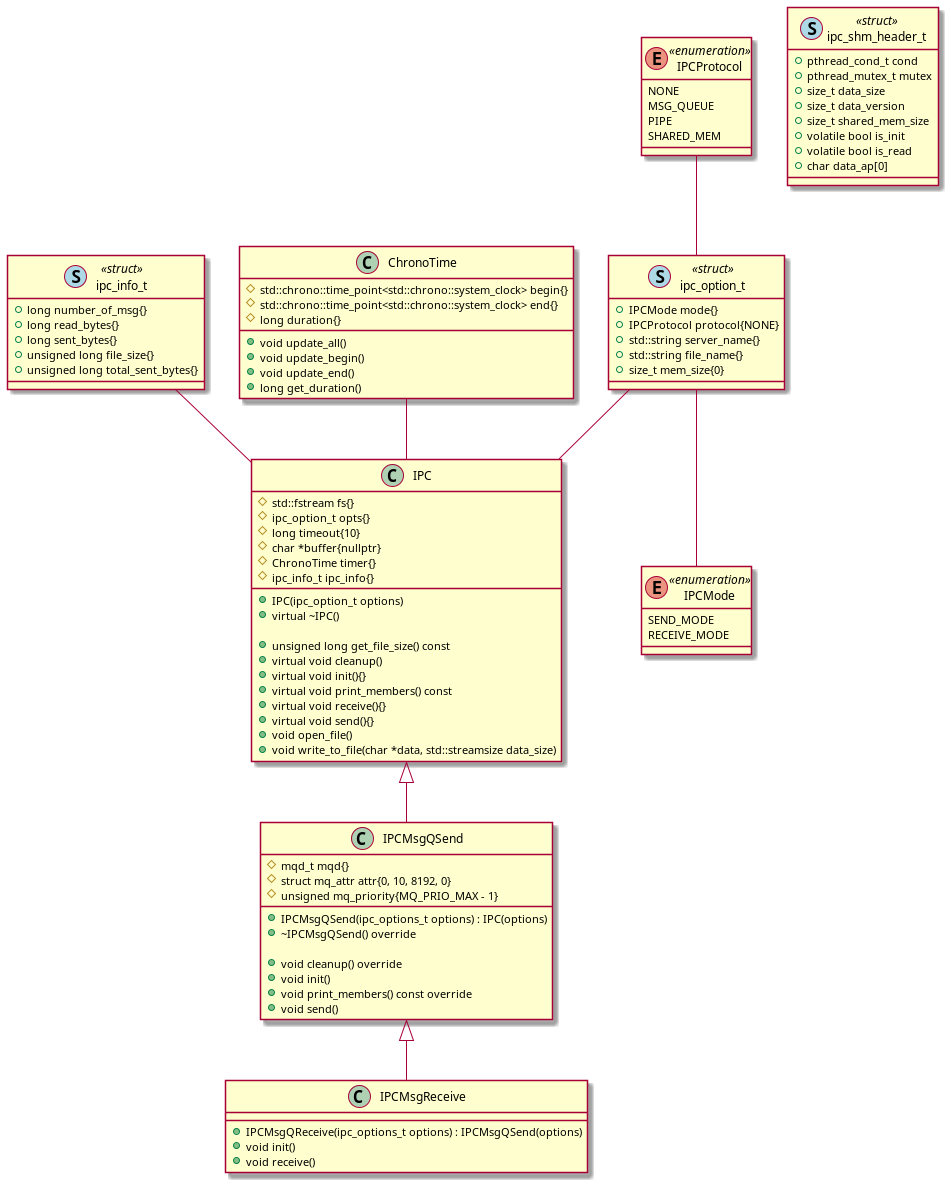
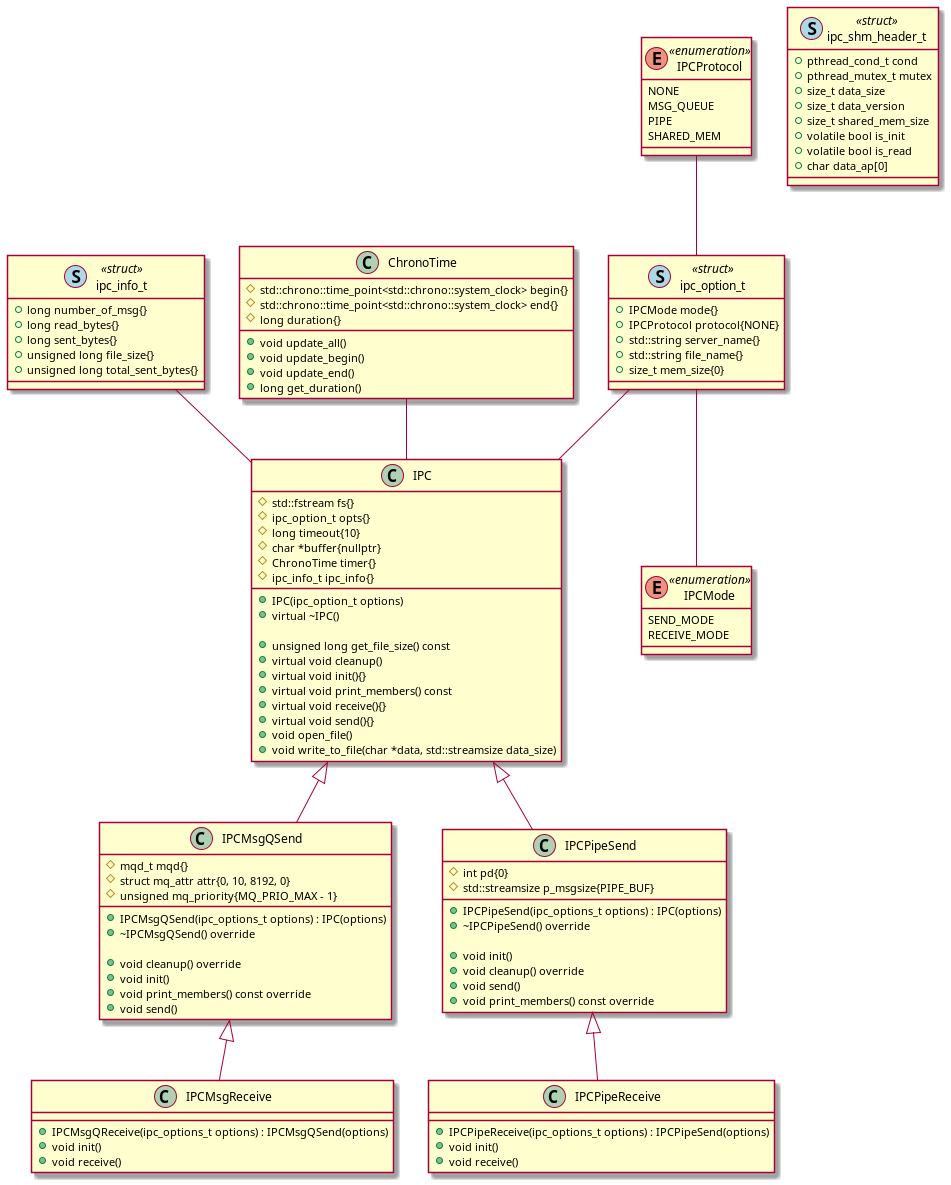
Pipe

Changed region(s): [[0.0915, 0.6869, 0.7928, 0.8743], [0.0305, 0.9055, 0.8233, 0.9992]]

diff --git a/lib/IPCPipeSend.cpp b/lib/IPCPipeSend.cpp
@@ -1,0 +1,97 @@
+/** @file IPCPipeSend.cpp
+ *  @author Bao Vu (bao.vu@unikie.com)
+ *  @brief Include IPCPipeSend class methods' definition
+ */
+
+#include "IPC.h"
+
+IPCPipeSend::~IPCPipeSend()
+{
+
+	if (this->pd > 0)
+	{
+		mq_close(this->pd);
+		std::cout << "Closed the pipe." << std::endl;
+	}
+	unlink(this->opts.server_name.c_str());
+	std::cout << "Unlinked the pipe name." << std::endl;
+
+}
+
+void IPCPipeSend::init()
+{
+	// remove old pipe (if any)
+	remove(this->opts.server_name.c_str());
+	// create a fifo
+	if (mkfifo(this->opts.server_name.c_str(), 0660) != 0)
+		throw std::runtime_error("ERROR: " + this->opts.server_name + ": " + strerror(errno));
+	// open the pipe with O_NONBLOCK to get EAGAIN
+	this->pd = open(this->opts.server_name.c_str(), O_RDWR | O_NONBLOCK);
+	if (this->pd == -1)
+		throw std::runtime_error("ERROR: " + this->opts.server_name + ": " + strerror(errno));
+	else
+		std::cout << "[" << this->opts.server_name << "] is opened." << std::endl;
+
+
+	this->open_file();
+	this->ipc_info.file_size = this->get_file_size();
+	if(this->ipc_info.file_size == 0)
+		throw std::runtime_error("ERROR: File size = 0.");
+	this->buffer.resize(this->p_msgsize);
+}
+
+void IPCPipeSend::print_members() const
+{
+	IPC::print_members();
+	std::cout << "pd: " << this->pd << std::endl;
+}
+
+void IPCPipeSend::transfer()
+{
+	this->timer.update_all();
+
+	std::cout << "Sending..." << std::endl;
+	while (!(this->fs.eof()))
+	{
+		this->fs.read(this->buffer.data(), this->p_msgsize);
+		if (this->fs.bad()) // check read/writing error on i/o operation
+			throw std::runtime_error("ERROR: istream::read().");
+
+		this->ipc_info.read_bytes = this->fs.gcount();
+		if (this->ipc_info.read_bytes >= 0)
+		{
+			errno = 0; // clear errno
+			this->ipc_info.sent_bytes = write(this->pd, this->buffer.data(), this->ipc_info.read_bytes);
+			if (this->ipc_info.sent_bytes == this->ipc_info.read_bytes && this->ipc_info.sent_bytes != 0)
+			{
+				this->ipc_info.total_sent_bytes += this->ipc_info.sent_bytes;
+				this->timer.update_all();
+			}
+			else if (this->ipc_info.sent_bytes == -1 && errno == EAGAIN)
+			{
+				while (errno == EAGAIN && this->timer.get_duration() < this->timeout)
+				{
+					this->timer.update_end();
+					errno = 0;
+					this->ipc_info.sent_bytes = write(this->pd, this->buffer.data(), this->ipc_info.read_bytes);
+					if (this->ipc_info.sent_bytes == this->ipc_info.read_bytes)
+					{
+						this->ipc_info.total_sent_bytes += this->ipc_info.sent_bytes;
+						this->timer.update_all();
+					}
+				}
+				if (errno == EAGAIN && this->timer.get_duration() >= this->timeout)
+					throw std::runtime_error(
+						"ERROR: Timeout. Waited for client more than " + std::to_string(this->timeout) + " seconds.");
+			}
+			else
+				throw std::runtime_error(static_cast<std::string>("ERROR: write():") + strerror(errno));
+		}
+	}
+
+	if (this->ipc_info.total_sent_bytes == this->ipc_info.file_size && this->ipc_info.sent_bytes != 0)
+		std::cout << "Sent " << this->ipc_info.total_sent_bytes << " byte(s)." << std::endl;
+	else
+		throw std::runtime_error("ERROR: Uncompleted transfer");
+}
+

diff --git a/lib/IPCPipeReceive.cpp b/lib/IPCPipeReceive.cpp
@@ -1,0 +1,52 @@
+/** @file IPCPipeReceive.cpp
+ *  @author Bao Vu (bao.vu@unikie.com)
+ *  @brief Include IPCPipeReceive class methods' definition
+ */
+
+#include "IPC.h"
+
+void IPCPipeReceive::init()
+{
+	this->timer.update_all(); // reset timer
+	do
+	{
+		print_wait_msg("Waiting for [" + this->opts.server_name + "]");
+		this->pd = open(this->opts.server_name.c_str(), O_RDONLY | O_NONBLOCK);
+		this->timer.update_end();
+		sleep(1); // recheck every 1 sec
+	} while (this->pd <= 0 && this->timer.get_duration() < this->timeout);
+	std::cout << std::endl; // print_wait_msg doesn't add new line.
+
+	if(this->pd <= 0)
+		throw std::runtime_error(
+			"ERROR: Timeout. Waited for [" + this->opts.server_name + "] more than " + std::to_string(this->timeout) + " seconds.");
+
+	this->open_file();
+	this->buffer.resize(this->p_msgsize);
+	this->timer.update_all(); // reset timer
+}
+
+void IPCPipeReceive::transfer()
+{
+	std::cout << "Receiving..." << std::endl;
+	while (this->timer.get_duration() < this->timeout)
+	{
+		errno = 0;
+		this->ipc_info.read_bytes = read(this->pd, this->buffer.data(), this->p_msgsize);
+		if (this->ipc_info.read_bytes > 0)
+		{
+			this->write_to_file(this->buffer, this->ipc_info.read_bytes);
+			this->timer.update_all();
+		}
+		this->timer.update_end();
+		if (errno == 0 && this->ipc_info.read_bytes == 0)
+			break;
+	}
+
+	if (errno == EAGAIN && this->timer.get_duration() >= this->timeout)
+		throw std::runtime_error(
+			"ERROR: Timeout. Waited for the sender more than " + std::to_string(this->timeout) + " seconds.");
+	else
+		std::cout << "The pipe closed. Received data: " << this->get_file_size() << " byte(s)" << std::endl;
+}
+

diff --git a/lib/IPC.h b/lib/IPC.h
@@ -135,4 +135,32 @@ class IPCMsgQReceive : public IPCMsgQSend
 		void transfer() override;
 };
 
+class IPCPipeSend : public IPC
+{
+	protected:
+		int pd{0};
+		std::streamsize p_msgsize{PIPE_BUF};
+	public:
+		// Constructor
+		explicit IPCPipeSend(ipc_options_t options) : IPC(options)
+		{};
+		virtual ~IPCPipeSend() override;
+		// Methods
+		virtual void init() override;
+		void print_members() const override;
+		virtual void transfer() override;
+
+};
+
+class IPCPipeReceive : public IPCPipeSend
+{
+	public:
+		// Constructor
+		explicit IPCPipeReceive(ipc_options_t options) : IPCPipeSend(options)
+		{};
+		// Methods
+		void init() override;
+		void transfer() override;
+};
+
 #endif //FILE_TRANSFER_CPP_IPC_H

diff --git a/lib/IPC.cpp b/lib/IPC.cpp
@@ -146,7 +146,9 @@ void ipc_start(ipc_options_t &options)
 		}
 		else if (options.protocol == IPCProtocol::PIPE)
 		{
-			std::cout << "PIPE: Not implemented yet." << std::endl;
+			IPCPipeReceive pipe{options};
+			pipe.print_members();
+			pipe.auto_start();
 		}
 		else if (options.protocol == IPCProtocol::SHARED_MEM)
 		{
@@ -163,7 +165,9 @@ void ipc_start(ipc_options_t &options)
 		}
 		else if (options.protocol == IPCProtocol::PIPE)
 		{
-			std::cout << "PIPE: Not implemented yet." << std::endl;
+			IPCPipeSend pipe{options};
+			pipe.print_members();
+			pipe.auto_start();
 		}
 		else if (options.protocol == IPCProtocol::SHARED_MEM)
 		{
